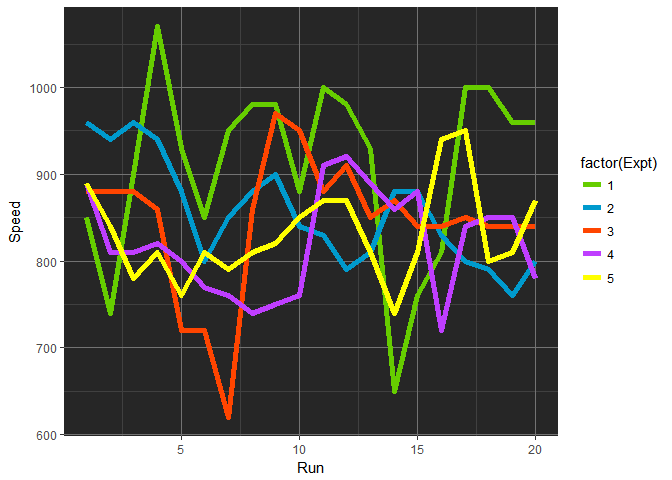
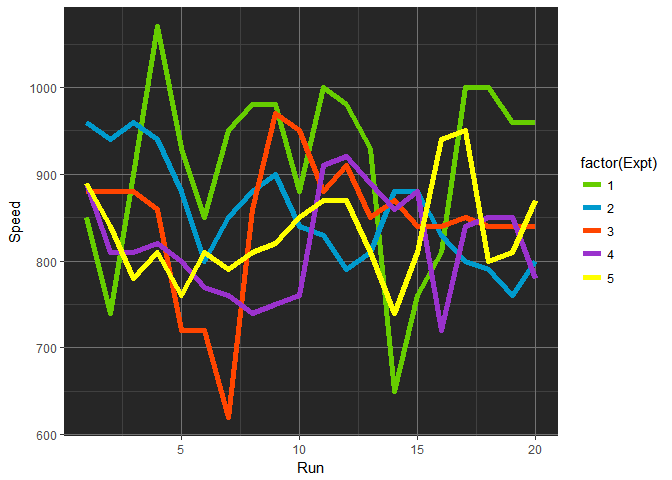
changed to darkorchid3

diff --git a/README.md b/README.md
@@ -28,8 +28,8 @@ jcolors('default')
 ```
 
 ```
-##  chartreuse3 deepskyblue3    orangered  darkorchid1       yellow 
-##    "#66CD00"    "#009ACD"    "#FF4500"    "#BF3EFF"    "#FFFF00"
+##  chartreuse3 deepskyblue3    orangered  darkorchid4       yellow 
+##    "#66CD00"    "#009ACD"    "#FF4500"    "#9A32CD"    "#FFFF00"
 ```
 
 
